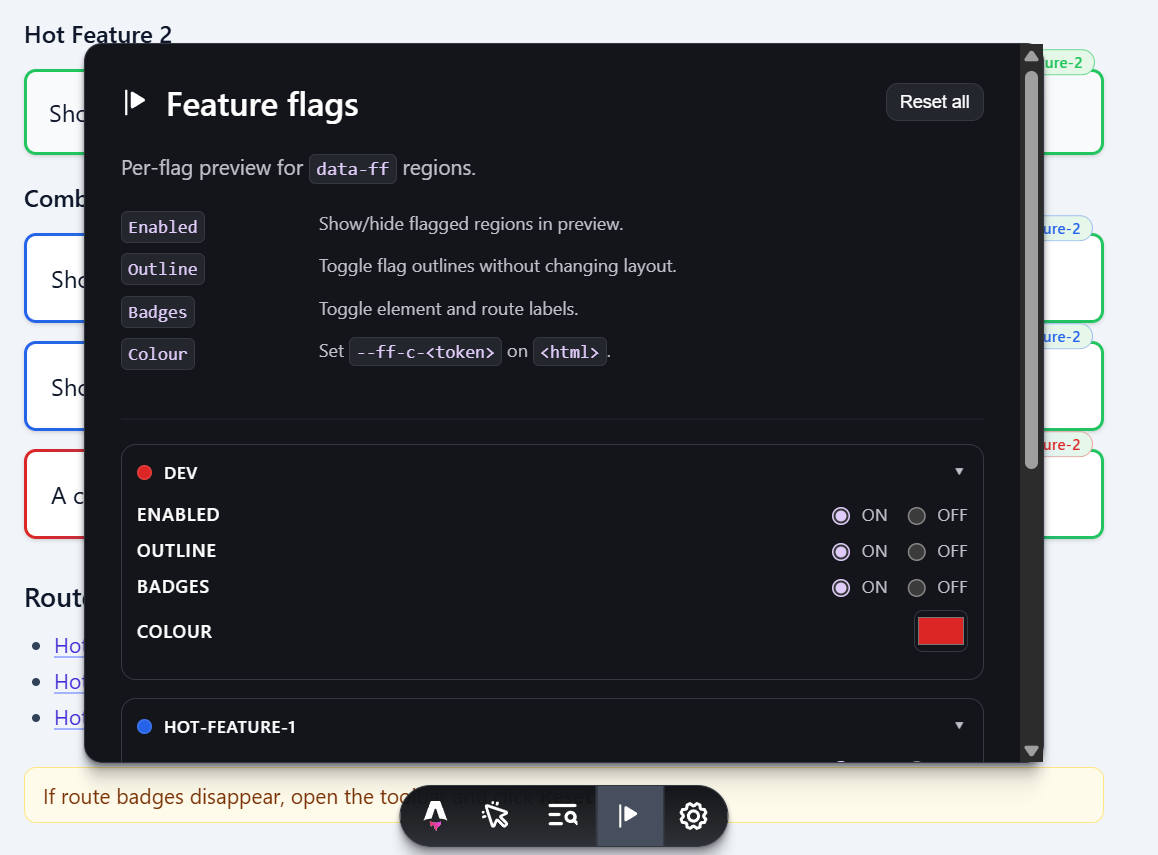
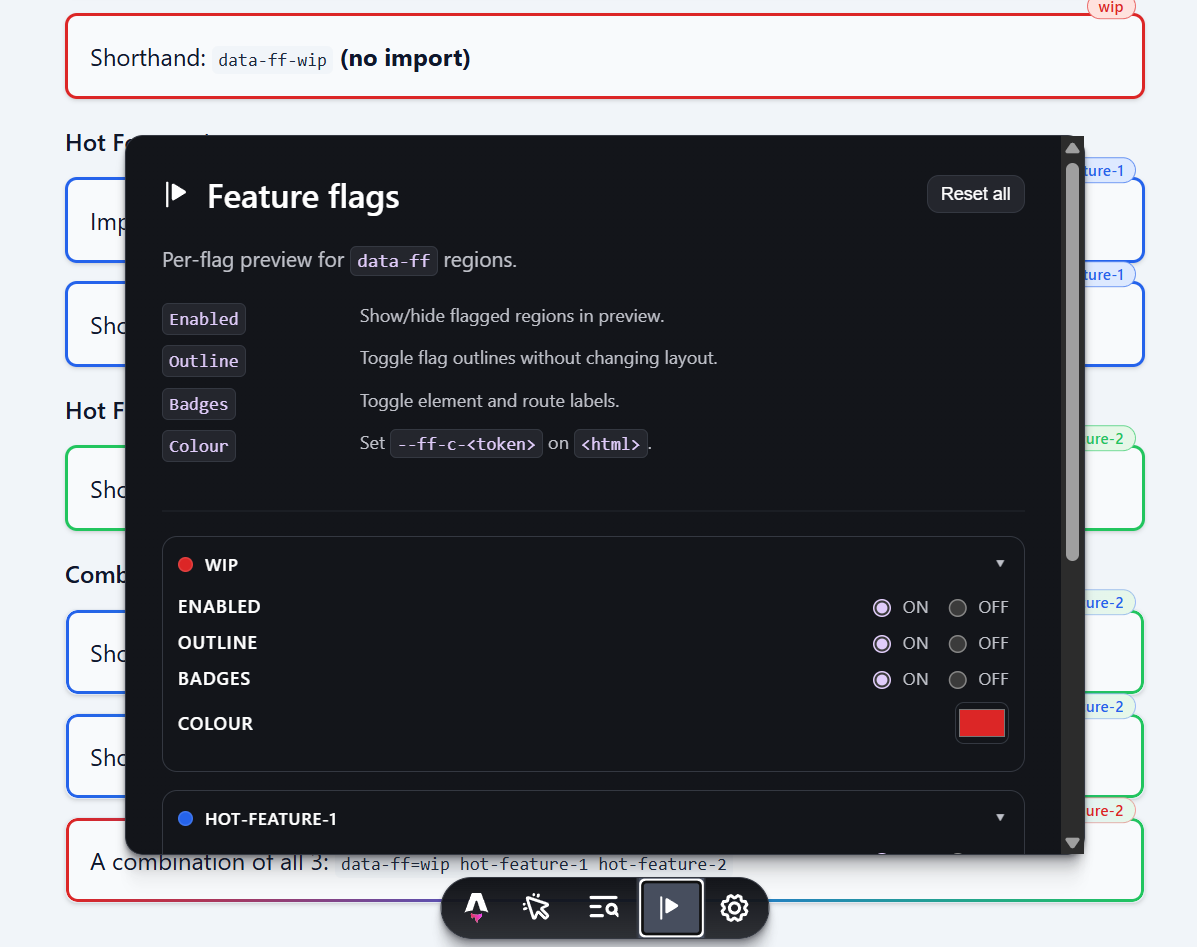
docs(astro-feature-flags): normalize element terminology
Use "element" wording across README and runtime/type comments for clearer v1 documentation language.

Changed region(s): [[0.0, 0.0, 0.9637, 1.0]]

diff --git a/packages/astro-feature-flags/src/badge-layout.ts b/packages/astro-feature-flags/src/badge-layout.ts
@@ -6,21 +6,21 @@ export type ElementBadgeHorizontalAlign = "start" | "center" | "end";
 /** Subset of dev CSS options used for element-badge geometry (also on `DevOutlineCssOptions`). */
 export interface ElementBadgeLayoutOptions {
   /**
-   * Horizontal alignment along the host’s top or bottom edge. Default `end` (top-right in LTR).
+   * Horizontal alignment along the element’s top or bottom edge. Default `end` (top-right in LTR).
    * Ignored when `elementBadgeHorizontalPercent` is set.
    */
   elementBadgeHorizontalAlign?: ElementBadgeHorizontalAlign;
   /**
-   * Optional: anchor at a percentage along the host width (0–100), with the pill centred on that point (`translateX(-50%)`).
+   * Optional: anchor at a percentage along the element width (0–100), with the pill centred on that point (`translateX(-50%)`).
    * When set, overrides `elementBadgeHorizontalAlign`.
    */
   elementBadgeHorizontalPercent?: number;
   /**
    * Vertical shift as a percentage of the **badge’s own height** (CSS transform %).
-   * With anchor `top`, moves the badge upward. Default `80` (~20% of the pill overlaps the host top edge).
+   * With anchor `top`, moves the badge upward. Default `80` (~20% of the pill overlaps the element top edge).
    */
   elementBadgeVerticalShiftPercent?: number;
-  /** Anchor the badge to the top or bottom edge of the host. Default `top`. */
+  /** Anchor the badge to the top or bottom edge of the element. Default `top`. */
   elementBadgeVerticalAnchor?: ElementBadgeVerticalAnchor;
 }
 

diff --git a/packages/astro-feature-flags/src/dev-inline-runtimes.ts b/packages/astro-feature-flags/src/dev-inline-runtimes.ts
@@ -183,7 +183,7 @@ export function affDevBootstrapRuntime(payload: BootstrapPayload): void {
     const hasDisabledInCombo = hasCombo && allTokens.some((tk) => !isEnabled(tk));
     const visual = allTokens.filter((tk) => isEnabled(tk));
     if (hasDisabledInCombo) {
-      // Fail-closed for combos: if any member token is disabled, hide the whole host.
+      // Fail-closed for combos: if any member token is disabled, hide the whole element.
       // Keep all combo tokens mirrored in data-<ns> so enabled-off CSS selectors can hide it.
       stripBooleanFlagAttrs(el);
       el.setAttribute(`data-${N}`, allTokens.join(" "));

diff --git a/packages/astro-feature-flags/README.md b/packages/astro-feature-flags/README.md
@@ -96,7 +96,9 @@ You cannot add an environment key named **`dev`** — that name is reserved and 
 
 > [!NOTE]
 > Flags are combinatory. If an element has `data-ff="wip hot-feature-2"`, both flags must be enabled for SSR outside the reserved `dev` layer.
-> In the dev toolbar preview, combined hosts are also fail-closed for **Enabled**: if any token in the combo is set to Off, the whole combined host is hidden.
+>
+> In the dev toolbar preview, combined flags are also combinatory for **Enabled**: if any token in the combo is set to Off, the whole combined element is hidden.
+>
 > In **Astro dev**, all declared flags are on at resolve time; the dev toolbar only changes client preview. In **non-dev** builds, nodes that fail the check are **removed from the HTML**. Route-mapped prefixes with a flag **off** are pruned from static `dist/` after build. Prefer **`shouldRenderFeature`** when you need compile-time omission with no trace in `dist/`.
 
 ## Common Use Cases
@@ -229,7 +231,7 @@ Layer select override: `AFF_ENVIRONMENT=prod`. **`forceEnvironment`** on the int
 | ------------------------------------------------- | ---------------------- | -------------------------------------------------------------------------------------------------------------------------------------------------------------------------------------------------------- |
 | `elementBadgeHorizontalAlign`                     | `'end'`                | `'start'` \| `'center'` \| `'end'` — LTR: **`end`** = top-right.                                                                                                                                         |
 | `elementBadgeHorizontalPercent`                   | _(unset)_              | 0–100: horizontal anchor with pill centred (`translateX(-50%)`); overrides align.                                                                                                                        |
-| `elementBadgeVerticalShiftPercent`                | `80`                   | Vertical shift as **% of the pill height** (default keeps most of the label above the host).                                                                                                             |
+| `elementBadgeVerticalShiftPercent`                | `80`                   | Vertical shift as **% of the pill height** (default keeps most of the label above the element).                                                                                                          |
 | `elementBadgeVerticalAnchor`                      | `'top'`                | `'top'` or `'bottom'`.                                                                                                                                                                                   |
 
 Per-element badge overrides (markup):